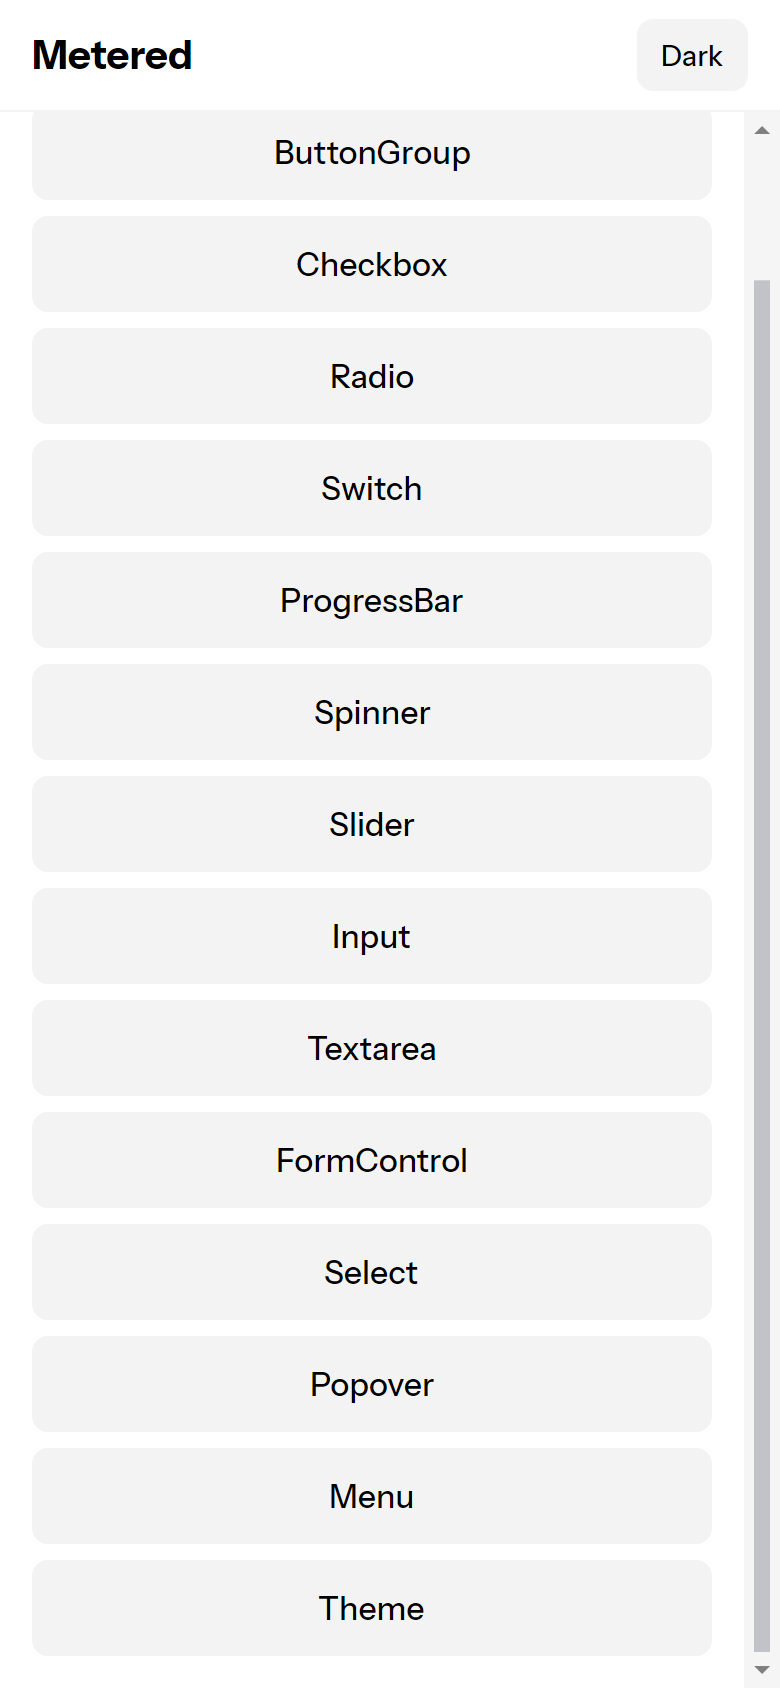
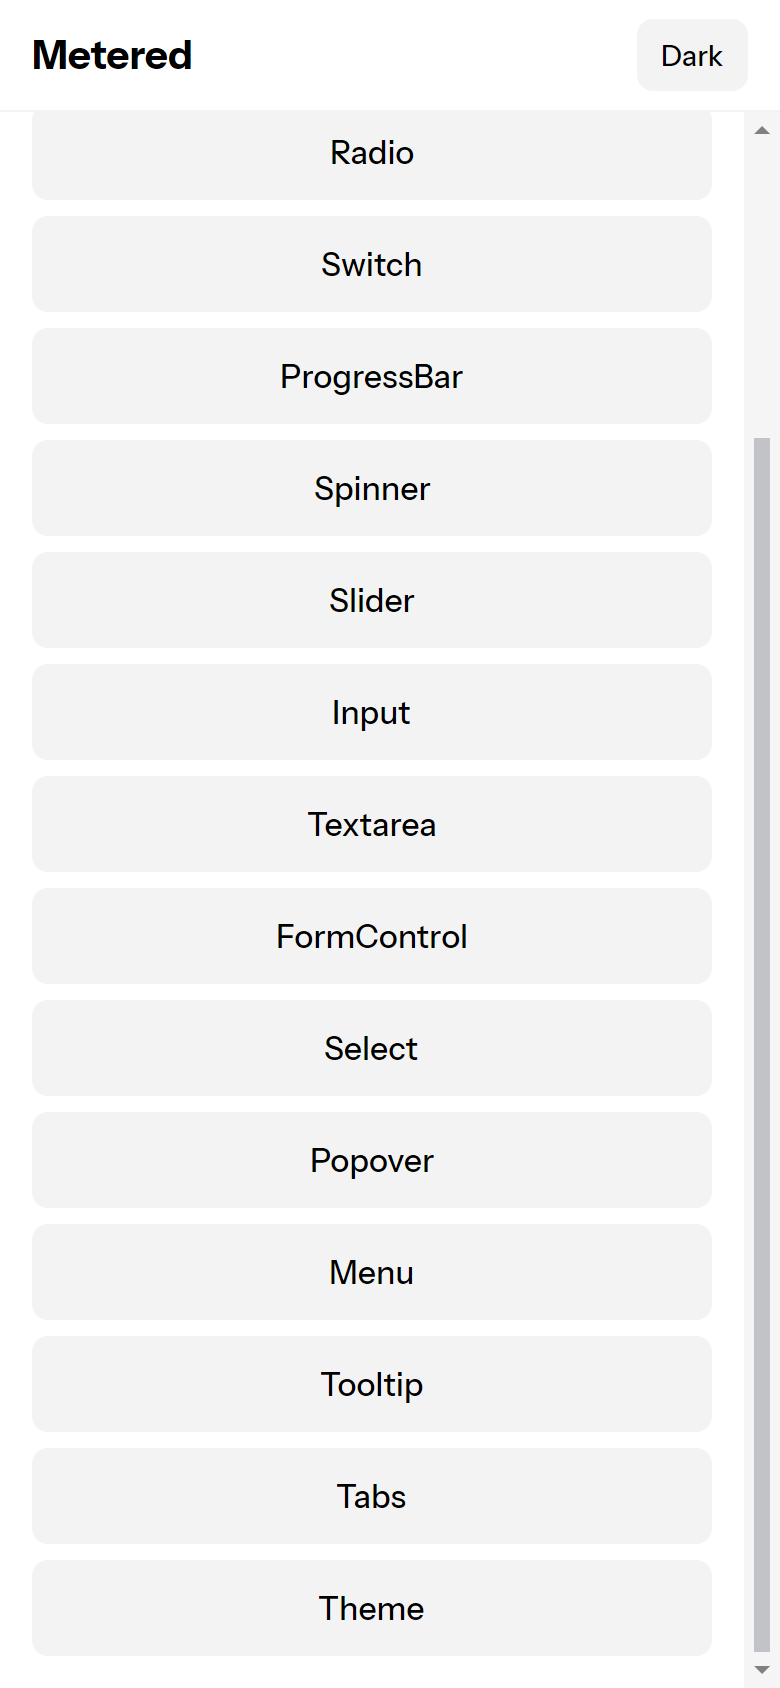
Roll-up after Tabs and Tooltip: the list redrawn, the tools' rows
- docs/preview: the list redrawn with Tooltip and Tabs (both screens). The
  dark Popover picture redrew a little differently since #163's Popover
  change; no difference to the eye.
- tools/README.md: tokens/tabs.js, tokens/tooltip.js, reference/tabs.js and
  reference/tooltip.js rows (Tooltip's from #163's Proposed for shared
  files), and both in gen.js's and radio.js's lists.
- README: sixteen controls.

diff --git a/tools/README.md b/tools/README.md
@@ -5,17 +5,19 @@ Developer tooling. Nothing here ships in a package. The tools that load `baseui`
 
 | Tool | What it does |
 |---|---|
-| `tokens/gen.js` | Writes `src/Metered.Themes/Tokens/*.g.axaml` from `baseui`'s LightTheme and DarkTheme (colours, sizing, borders, lighting, animation, typography, the Button's box-shadows from `tokens/button-shadows.js`, the Slider's thumb shadow from `tokens/slider.js`), the part themes `Controls/{Button,Checkbox,FormControl,Input,Menu,Popover,ProgressBar,Radio,Select,Slider,Spinner,Switch,Textarea}.Parts.g.axaml` (`tokens/button.js`, `checkbox.js`, `form-control.js`, `input.js`, `menu.js`, `popover.js`, `progress-bar.js`, `radio.js`, `select.js`, `slider.js`, `spinner.js`, `switch.js`, `textarea.js`), and `Theming/ThemeDerivation.g.cs` (`tokens/theme.js`). `--check` fails if a file would change. |
+| `tokens/gen.js` | Writes `src/Metered.Themes/Tokens/*.g.axaml` from `baseui`'s LightTheme and DarkTheme (colours, sizing, borders, lighting, animation, typography, the Button's box-shadows from `tokens/button-shadows.js`, the Slider's thumb shadow from `tokens/slider.js`), the part themes `Controls/{Button,Checkbox,FormControl,Input,Menu,Popover,ProgressBar,Radio,Select,Slider,Spinner,Switch,Tabs,Textarea,Tooltip}.Parts.g.axaml` (`tokens/button.js`, `checkbox.js`, `form-control.js`, `input.js`, `menu.js`, `popover.js`, `progress-bar.js`, `radio.js`, `select.js`, `slider.js`, `spinner.js`, `switch.js`, `tabs.js`, `textarea.js`, `tooltip.js`), and `Theming/ThemeDerivation.g.cs` (`tokens/theme.js`). `--check` fails if a file would change. |
 | `tokens/theme.js` | What Base Web's `createTheme` and `createDarkTheme` derive, read by calling them (and the Button's style function) on sentinel values: which colours follow which foundation colour, what each Button shadow is made of, which paths are one object. Tables of names for `Metered.Themes.Theme` (ADR 0002). Run by `gen.js`. |
 | `tokens/checkbox.js` | The Checkbox's part themes (`Controls/Checkbox.Parts.g.axaml`), from checkbox-v2's style functions, by `radio.js`'s writer as the fewest layered styles. Run by `gen.js`. |
-| `tokens/radio.js` | The Radio's part themes (`Controls/Radio.Parts.g.axaml`), from radio-v2's style functions evaluated on a theme whose colours are their names, checked for every combination of states. Also the v2 controls' shared theme writer (with its `layered` mode) and conversions, which every other part-theme generator uses (`checkbox.js`, `form-control.js`, `input.js`, `menu.js`, `popover.js`, `progress-bar.js`, `select.js`, `slider.js`, `spinner.js`, `switch.js`, `textarea.js`). Run by `gen.js`. |
+| `tokens/radio.js` | The Radio's part themes (`Controls/Radio.Parts.g.axaml`), from radio-v2's style functions evaluated on a theme whose colours are their names, checked for every combination of states. Also the v2 controls' shared theme writer (with its `layered` mode) and conversions, which every other part-theme generator uses (`checkbox.js`, `form-control.js`, `input.js`, `menu.js`, `popover.js`, `progress-bar.js`, `select.js`, `slider.js`, `spinner.js`, `switch.js`, `tabs.js`, `textarea.js`, `tooltip.js`). Run by `gen.js`. |
 | `tokens/slider.js` | The Slider's part themes (`Controls/Slider.Parts.g.axaml`), from Base Web's slider's style functions, by `radio.js`'s writer as the fewest layered styles; react-range's inline thumb cursor; and the thumb's literal shadow as a token (`Tokens/SliderBoxShadows.g.axaml`). Run by `gen.js`. |
 | `tokens/input.js` | The Input's part themes (`Controls/Input.Parts.g.axaml`), from Base Web's input's style functions, by `radio.js`'s writer as the fewest layered styles; the icons' sizes from Base Web's Input rendered and their paths from its icons rendered (`delete-alt`, `show`, `hide`). Its `parts` and `themes` serve Textarea's; its `declare`, `padding` and `INHERITED` serve FormControl's. Run by `gen.js`. |
 | `tokens/textarea.js` | The Textarea's part themes (`Controls/Textarea.Parts.g.axaml`), from Base Web's textarea's styled components (`StyledTextAreaRoot`, `StyledTextareaContainer`, `StyledTextarea`) and BaseInput's clear icon, with `input.js`'s parts and themes for the textarea's states. Run by `gen.js`. |
 | `tokens/form-control.js` | The FormControl's part themes (`Controls/FormControl.Parts.g.axaml`), from Base Web's form control's style functions (`CaptionMessage` a style object), by `radio.js`'s writer as the fewest layered styles; the caption's two icons (`alert`, `check`) at the size Base Web's FormControl renders them. Run by `gen.js`. |
 | `tokens/popover.js` | The Popover's part themes (`Controls/Popover.Parts.g.axaml`), from Base Web's popover's style functions evaluated with its colours, radii and shadows as their token names, by `radio.js`'s writer as the fewest layered styles; the body's entrance (0.1 s while `:is-open:is-animating`), a hover popover's first 0.1 s of not taking the pointer (`IsHitTestVisible`), and `Popover.StyledPadding`. Run by `gen.js`. |
+| `tokens/tooltip.js` | The Tooltip's part themes (`Controls/Tooltip.Parts.g.axaml`), from Base Web's tooltip's styled components (the popover's style functions with the tooltip's values over them), with `popover.js`'s helpers and `radio.js`'s writer as the fewest layered styles: the body's fade of its opacity alone (no transform: its `getEndPosition`), a hover body's first 0.1 s, and Inner's padding, `font150` and wrapped text. Run by `gen.js`. |
 | `tokens/menu.js` | The Menu's part themes (`Controls/Menu.Parts.g.axaml`), from Base Web's menu's style functions evaluated with its colours, radii, shadows and border colours as their token names, by `radio.js`'s writer as the fewest layered styles: the list, an option by its size, highlight, the menu's focus and disabled, its link, a header, a divider, the empty state and the profile option's seven parts; an option's colour and background transition once loaded, and a link's underline. Run by `gen.js`. |
 | `tokens/select.js` | The Select's part themes and its tag's (`Controls/Select.Parts.g.axaml`: `Select.Styled<Part>`, `SelectTag.Styled<Part>`), from Base Web's select and tag style functions evaluated on a theme whose colours, radii and shadows are their own names, for every combination of the states select-component.js gives each part, by `radio.js`'s writer as the fewest state styles: the control's box by state, the value's line, the icons (Base Web's own, at the sizes it gives them), an option's label in the dropdown, and the tag as multi-value.js gives it. The dropdown's other parts are the Menu's. Run by `gen.js`. |
+| `tokens/tabs.js` | Tabs' part themes (`Controls/Tabs.Parts.g.axaml`), from Base Web's `tabs-motion` (the current tabs: `tabs` is deprecated in its favour), its style functions evaluated with the colours as their token names for every combination of the states they read, by `radio.js`'s writer as the fewest layered styles; a tab's `:hover`, `:disabled` and `:disabled:hover` resolved as a browser's cascade does; the highlight's Base Web defaults (the Tabs sets the active tab's length and distance) and the artwork's size as `Tabs.ArtworkSize`. Run by `gen.js`. |
 | `tokens/spinner.js` | The Spinner's part theme (`Controls/Spinner.Parts.g.axaml`), from Base Web's spinner's style function on a theme whose colours are their names: a state style for each size, sizing token, length and dropped value of `$size` and `$borderWidth`, and the turn, unless `:metered-still`. Run by `gen.js`. |
 | `tokens/switch.js` | The Switch's part themes (`Controls/Switch.Parts.g.axaml`), from Base Web's switch's style functions, by `radio.js`'s writer. Run by `gen.js`. |
 | `tokens/progress-bar.js` | The ProgressBar's part themes (`Controls/ProgressBar.Parts.g.axaml`), from Base Web's progress bar's style functions, by `radio.js`'s layered writer, with its motion (the fill's transition, the endless animations, off while `:metered-still`). Run by `gen.js`. |
@@ -29,8 +31,10 @@ Developer tooling. Nothing here ships in a package. The tools that load `baseui`
 | `reference/textarea.js` | For `cases.js`: `textarea.oracle.json`, the textarea's oracle: Base Web's own Textarea rendered (react-dom/server) with every part recorded, each part's style function run with the props it was given, on the light and dark themes. |
 | `reference/form-control.js` | For `cases.js`: `form-control.oracle.json`, the form control's oracle: Base Web's own FormControl rendered (react-dom/server) with every part recorded, round a child that records what `cloneElement` gives it with the defaultProps of Input, Textarea, Checkbox or RadioGroup; each part's style function run with the props it was given, on the light and dark themes; and the block flow's positions from its margins and lines. |
 | `reference/popover.js` | For `cases.js`: `popover.oracle.json`, the popover's oracle: each part's colours on the light and dark themes; the body's margin, entrance start and motion and the arrow's position by placement (its style functions checked against utils.js's helpers); its constants, default props and `StyledPadding`; and popper.js's placements, first and next update, from `tether.g.json`. |
+| `reference/tooltip.js` | For `cases.js`: `tooltip.oracle.json`, the tooltip's oracle: each part's colours, radius, shadow, padding and font on the light and dark themes and on a theme with its own `radius300`; the body's margin and transform and its motion by state; and its default props as React resolves them for StatefulTooltip and Tooltip. Where popper.js puts it is the popover's (`tether.g.json`). |
 | `reference/menu.js` | For `cases.js`: `menu.oracle.json`, the menu's oracle: Base Web's StatefulMenu rendered for each case (its parts in order, their props and their style functions' declarations); its own MenuStatefulContainer driven step by step in Node as a browser and React would drive it (DOM focus, batched state, componentDidUpdate, type-ahead's timer faked); and its own scrollItemIntoView on the geometry its styles give. |
 | `reference/select.js` | For `cases.js`: `select.oracle.json`, the select's oracle: Base Web's own Select rendered for each case, every part's props recorded and its style function evaluated, the dropdown and a multi value's tags too, on the real light and dark themes; its Select class driven step by step in Node as React and a browser would drive it (state, focus, the document's click listener), the value kept as StatefulSelect keeps it. |
+| `reference/tabs.js` | For `cases.js`: `tabs.oracle.json`, the tabs' oracle: Base Web's own Tabs and StatefulTabs (`tabs-motion`) rendered (react-dom/server) with every part recorded in order (which render, their text, ARIA, tab stops, disabled and hidden states, a panel's content); the keys' and clicks' handlers tabs.js gives each tab, driven step by step in Node on stand-ins for its buttons; each part's style function run with the props it was given, on the light and dark themes. |
 | `reference/spinner.js` | For `cases.js`: `spinner.oracle.json`, the spinner's oracle. |
 | `reference/switch.js` | For `cases.js`: `switch.oracle.json`, the switch's oracle. |
 | `reference/progress-bar.js` | For `cases.js`: `progress-bar.oracle.json`, the progress bar's oracle: Base Web's own `ProgressBar` rendered (react-dom's server renderer) with every part overridden by a recorder, each part's style function evaluated with the props it was given. |

diff --git a/README.md b/README.md
@@ -12,7 +12,7 @@ by Uber or the AvaloniaUI team.
 
 The sample's pages, drawn headless. More in [PREVIEW.md](PREVIEW.md).
 
-> **Status: early, not yet published.** Fourteen controls, from Button to Select (see [PREVIEW.md](PREVIEW.md)), on the tokens, the
+> **Status: early, not yet published.** Sixteen controls, from Button to Tabs (see [PREVIEW.md](PREVIEW.md)), on the tokens, the
 > parts and states, Base Web's overrides API and its theme builder. The inventory of controls is
 > next; see [`docs/ROADMAP.md`](docs/ROADMAP.md).
 
